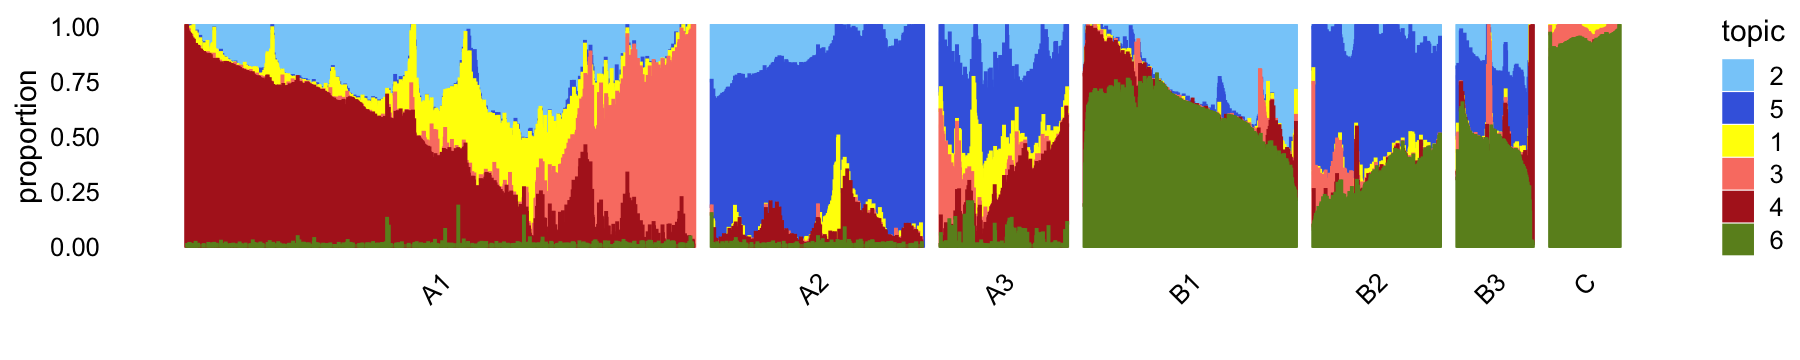
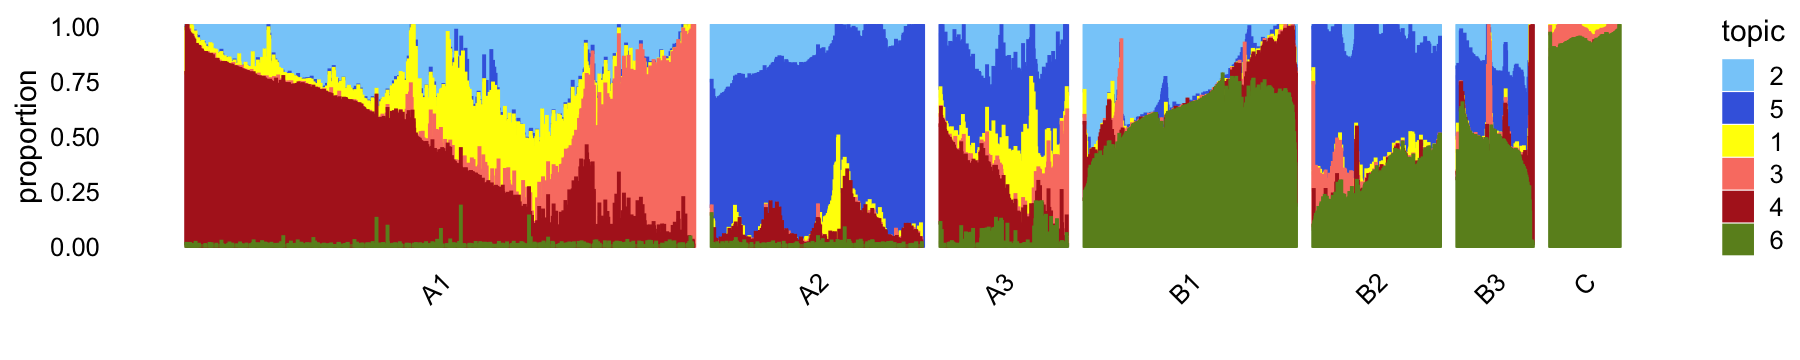
Improved the 68k structure plot in plots_pbmc a bit.

Changed region(s): [[0.4978, 0.0611, 0.7467, 0.6722], [0.0933, 0.0611, 0.4044, 0.6722], [0.3111, 0.3972, 0.3422, 0.4583]]

diff --git a/docs/plots_pbmc.html b/docs/plots_pbmc.html
@@ -414,16 +414,16 @@ This reproducible <a href="http://rmarkdown.rstudio.com">R Markdown</a> analysis
 <div class="panel panel-default">
 <div class="panel-heading">
 <p class="panel-title">
-<a data-toggle="collapse" data-parent="#workflowr-checks" href="#strongRepositoryversionstrongahrefhttpsgithubcomstephenslabsinglecelltopicstree6959d21321df251be7533a421e983d3bd9585bbdtargetblank6959d21a"> <span class="glyphicon glyphicon-ok text-success" aria-hidden="true"></span> <strong>Repository version:</strong> <a href="https://github.com/stephenslab/single-cell-topics/tree/6959d21321df251be7533a421e983d3bd9585bbd" target="_blank">6959d21</a> </a>
+<a data-toggle="collapse" data-parent="#workflowr-checks" href="#strongRepositoryversionstrongahrefhttpsgithubcomstephenslabsinglecelltopicstree8b37a441e50440248f9a5bab11a5a72268fb2ed3targetblank8b37a44a"> <span class="glyphicon glyphicon-ok text-success" aria-hidden="true"></span> <strong>Repository version:</strong> <a href="https://github.com/stephenslab/single-cell-topics/tree/8b37a441e50440248f9a5bab11a5a72268fb2ed3" target="_blank">8b37a44</a> </a>
 </p>
 </div>
[2 lines of base64/hex data omitted]
 <div class="panel-body">
 <p>
 Great! You are using Git for version control. Tracking code development and connecting the code version to the results is critical for reproducibility.
 </p>
 <p>
-The results in this page were generated with repository version <a href="https://github.com/stephenslab/single-cell-topics/tree/6959d21321df251be7533a421e983d3bd9585bbd" target="_blank">6959d21</a>. See the <em>Past versions</em> tab to see a history of the changes made to the R Markdown and HTML files.
+The results in this page were generated with repository version <a href="https://github.com/stephenslab/single-cell-topics/tree/8b37a441e50440248f9a5bab11a5a72268fb2ed3" target="_blank">8b37a44</a>. See the <em>Past versions</em> tab to see a history of the changes made to the R Markdown and HTML files.
 </p>
 <p>
 Note that you need to be careful to ensure that all relevant files for the analysis have been committed to Git prior to generating the results (you can use <code>wflow_publish</code> or <code>wflow_git_commit</code>). workflowr only checks the R Markdown file, but you know if there are other scripts or data files that it depends on. Below is the status of the Git repository when the results were generated:
@@ -480,6 +480,40 @@ Message
 </tr>
 </thead>
 <tbody>
+<tr>
+<td>
+Rmd
+</td>
+<td>
+<a href="https://github.com/stephenslab/single-cell-topics/blob/8b37a441e50440248f9a5bab11a5a72268fb2ed3/analysis/plots_pbmc.Rmd" target="_blank">8b37a44</a>
+</td>
+<td>
+Peter Carbonetto
+</td>
+<td>
+2020-08-27
+</td>
+<td>
+workflowr::wflow_publish(“plots_pbmc.Rmd”, verbose = TRUE)
+</td>
+</tr>
+<tr>
+<td>
+html
+</td>
+<td>
+<a href="https://rawcdn.githack.com/stephenslab/single-cell-topics/c516da1cf79ee96e2b86257fe975bc826d8bb731/docs/plots_pbmc.html" target="_blank">c516da1</a>
+</td>
+<td>
+Peter Carbonetto
+</td>
+<td>
+2020-08-27
+</td>
+<td>
+Added more notes/thoughts to plots_pbmc analysis.
+</td>
+</tr>
 <tr>
 <td>
 Rmd
@@ -2500,7 +2534,7 @@ Peter Carbonetto
 </table>
 </div>
 </div>
-<p>Topic 3 characterizes natural killer cells, and topic 4 has yet to be characterized, but may represent some subset of naive T-cells. This is an example with interesting substructure that can’t be captured by clusters.</p>
+<p>Topic 3 characterizes natural killer cells, and topic 4 has yet to be characterized, but may represent some subset of naive T-cells. This is an example with interesting substructure that can’t be captured by clusters. This is also an example of substructure that is much better captured by linear representations such as PCA as opposed to nonlinear dimensionality reduction methods such as <em>t</em>-SNP and UMAP.</p>
 <p>In summary, we have subdivided these data into 7 subsets:</p>
 <pre class="r"><code>samples_68k$cluster &lt;- factor(samples_68k$cluster)
 table(samples_68k$cluster)
@@ -2524,7 +2558,7 @@ p16 &lt;- structure_plot(select(poisson2multinom(fit_68k),loadings = rows),
                       grouping = samples_68k[rows,&quot;cluster&quot;],
                       topics = pbmc_68k_topics,
                       colors = pbmc_68k_topic_colors[pbmc_68k_topics],
-                      perplexity = c(100,100,50,100,50,50,50),
+                      perplexity = c(160,100,70,80,50,50,50),
                       n = Inf,gap = 40,num_threads = 4,verbose = FALSE)
 print(p16)</code></pre>
 <p><img src="figure/plots_pbmc.Rmd/pbmc-68k-structure-plot-1.png" width="900" style="display: block; margin: auto;" /></p>
@@ -2642,7 +2676,7 @@ Peter Carbonetto
 </table>
 </div>
 </div>
-<p>These subsets do not align as closely with the cell-type labeling inferred by Zheng et al (2017), which is not surprising considering that this labeling is based on the FACS-purified data set.</p>
+<p>These subsets do not align as closely with the cell-type labeling inferred by Zheng <em>et al</em> (2017). This is not surprising considering that the Zheng <em>et al</em> labeling is based on the FACS-purified data set.</p>
 <pre class="r"><code>with(samples_68k,table(celltype,cluster))
 #                               cluster
 # celltype                          A1    A2    A3    B1    B2    B3     C
@@ -2657,12 +2691,13 @@ Peter Carbonetto
 #   CD8+ Cytotoxic T             20672     1    74    24     0     2     0
 #   CD8+/CD45RA+ Naive Cytotoxic 16649     0     9     0     5     3     0
 #   Dendritic                       77     4    26  1094   743   155     0</code></pre>
-<p>A few notes about these results:</p>
+<p>A few more notes about these results:</p>
 <ul>
 <li><p>As in the purified fit, here we identify a B-cells cluster (B) and topic (5) that closely match.</p></li>
 <li><p>We also identify what is most likely a cluster of CD34+ cells (C), although the corresponding topic (6) is not distinctive to this cluster, so it remains to be seen if topic 6 also characterises CD34+ cells.</p></li>
 <li><p>Unlike the FACS-purified data, don’t identify a clear-cut cluster for NK cells; the NK cells are mixed in with the T-cells (subset A1). NK cells will emerge only after subsequent analysis of topic 3.</p></li>
 <li><p>Some of the distinct clusters (e.g., B1a, B1b, B2) are characterized by mixtures of topics, so if these clusters do indeed correspond to interesting cell types, analyzing the topics alone may not shed light onto these cell types.</p></li>
+<li><p>The small number (~1%) of A3 and B3 cells aren’t distinct subpopulations <em>per se</em> but rather appear to be in some “intermediate” developmental state, and the mixture of topics captures this.</p></li>
 </ul>
 <p>In summary, the topics and clusters seem to offer very much complementary biological insights, although subsequent analysis is needed to determine what these insights are.</p>
 <br>
